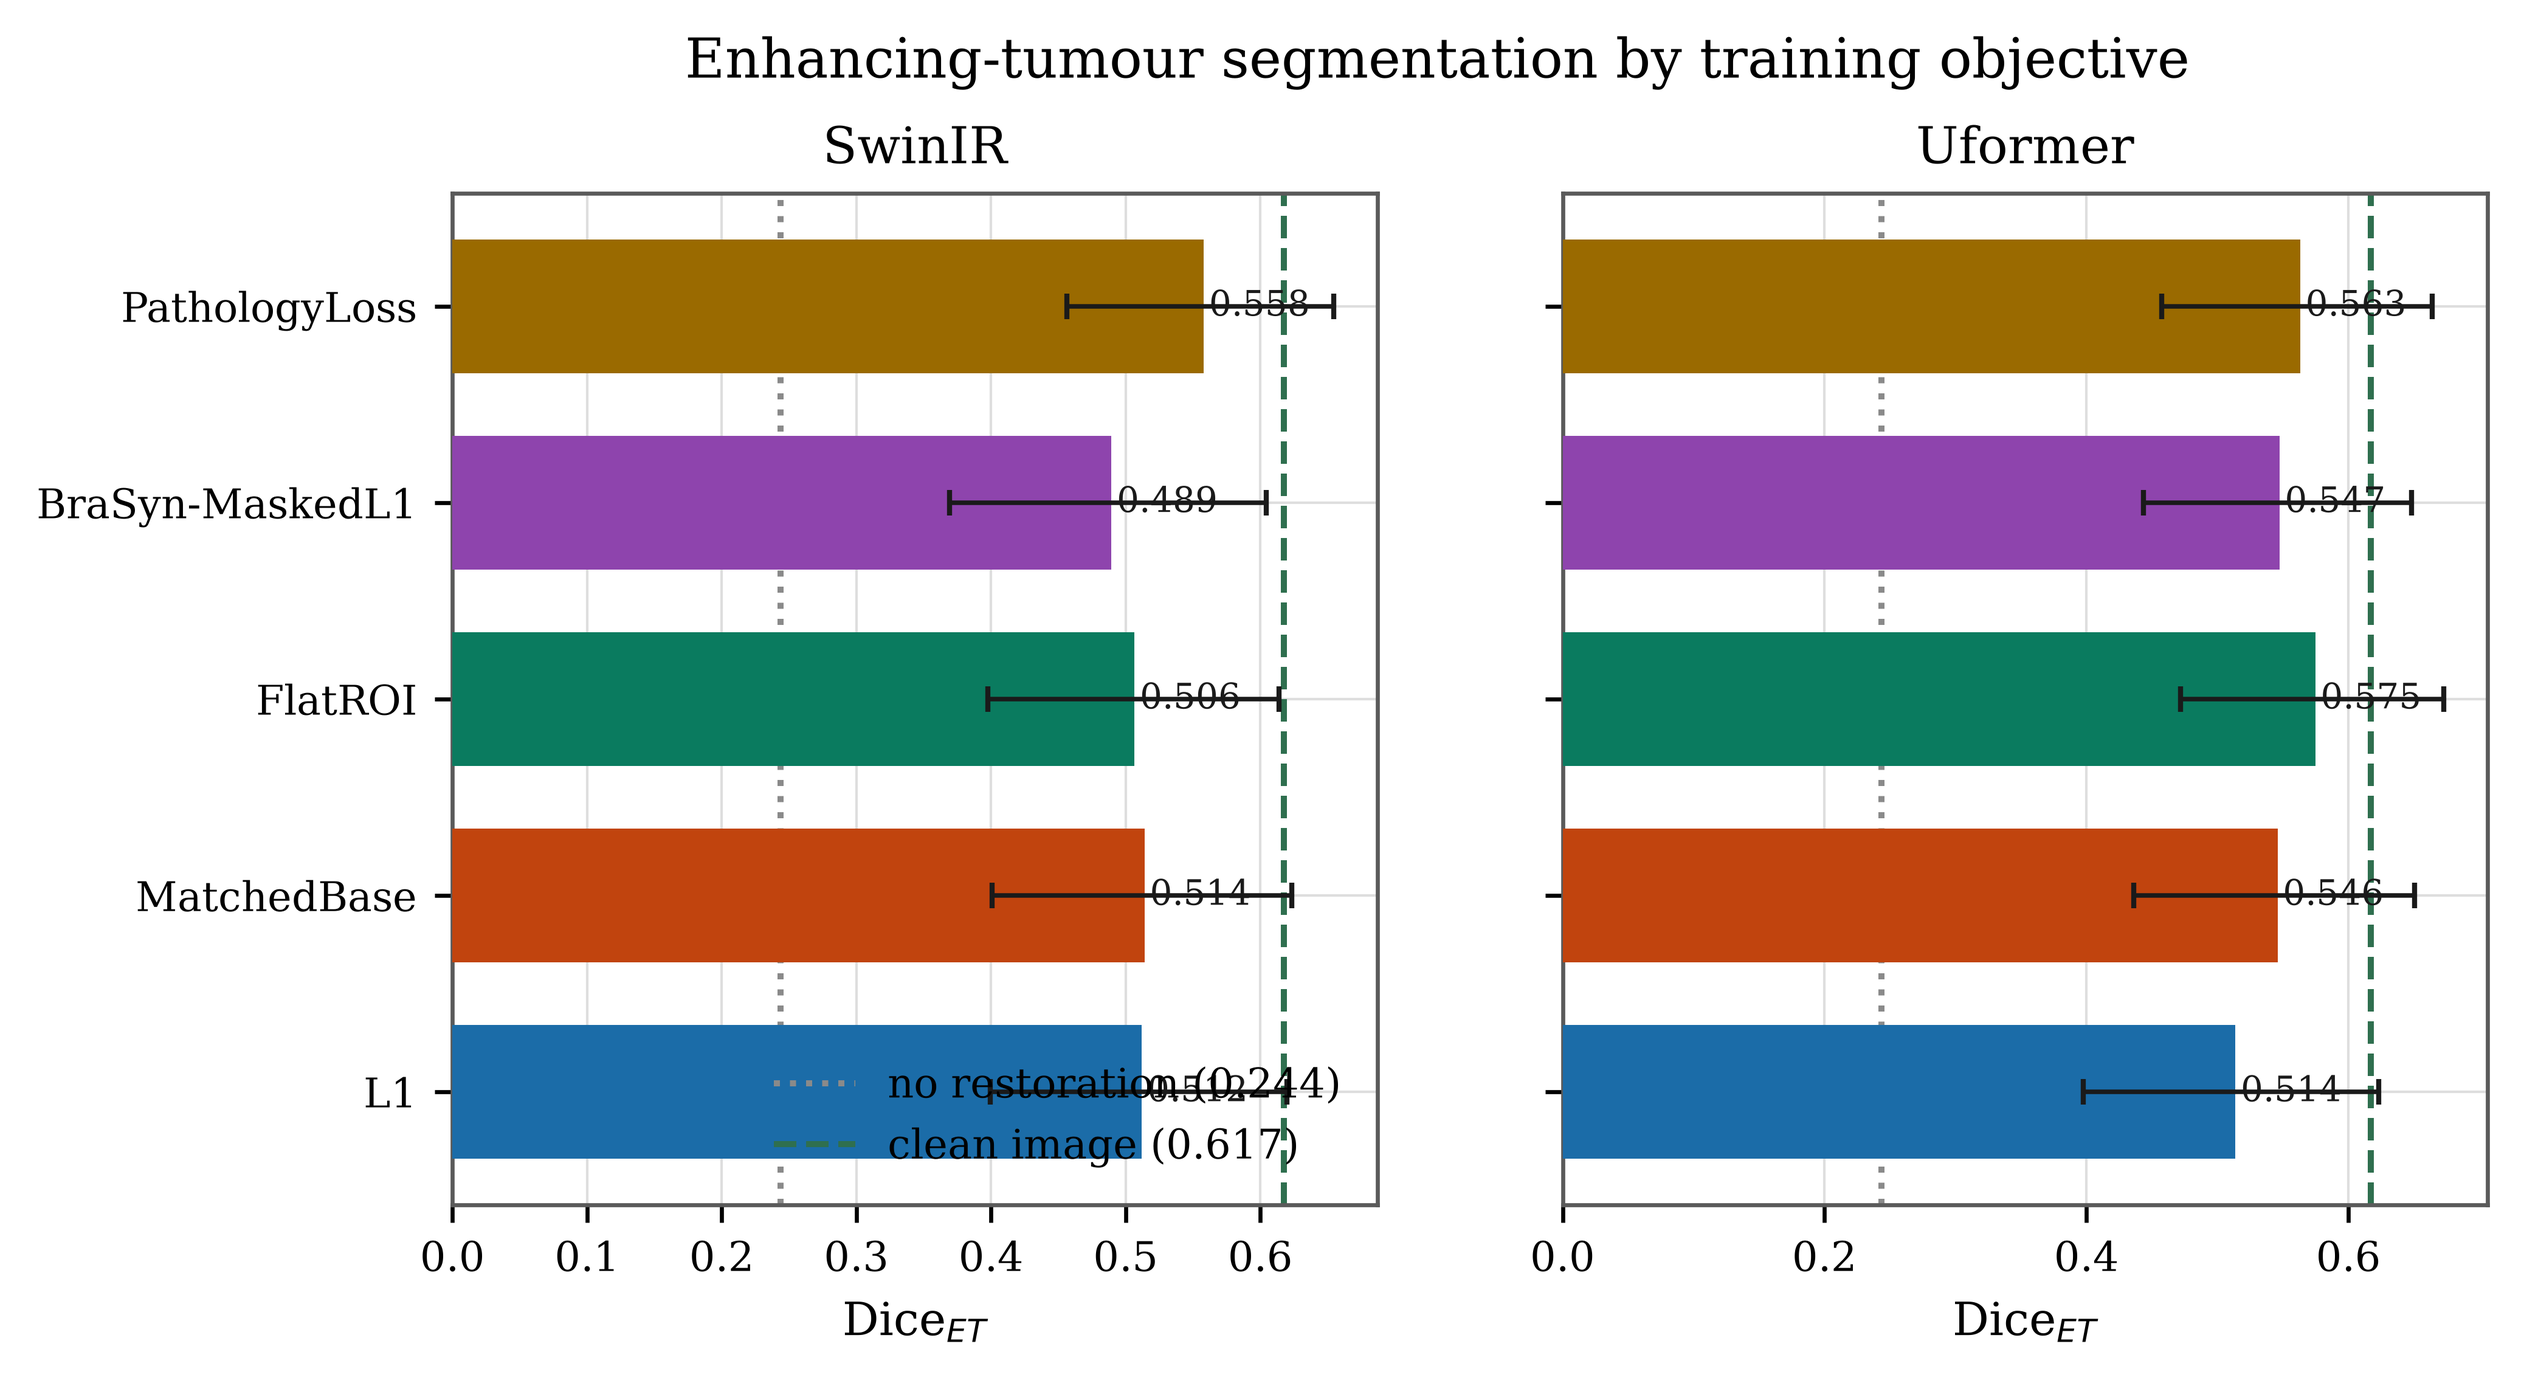
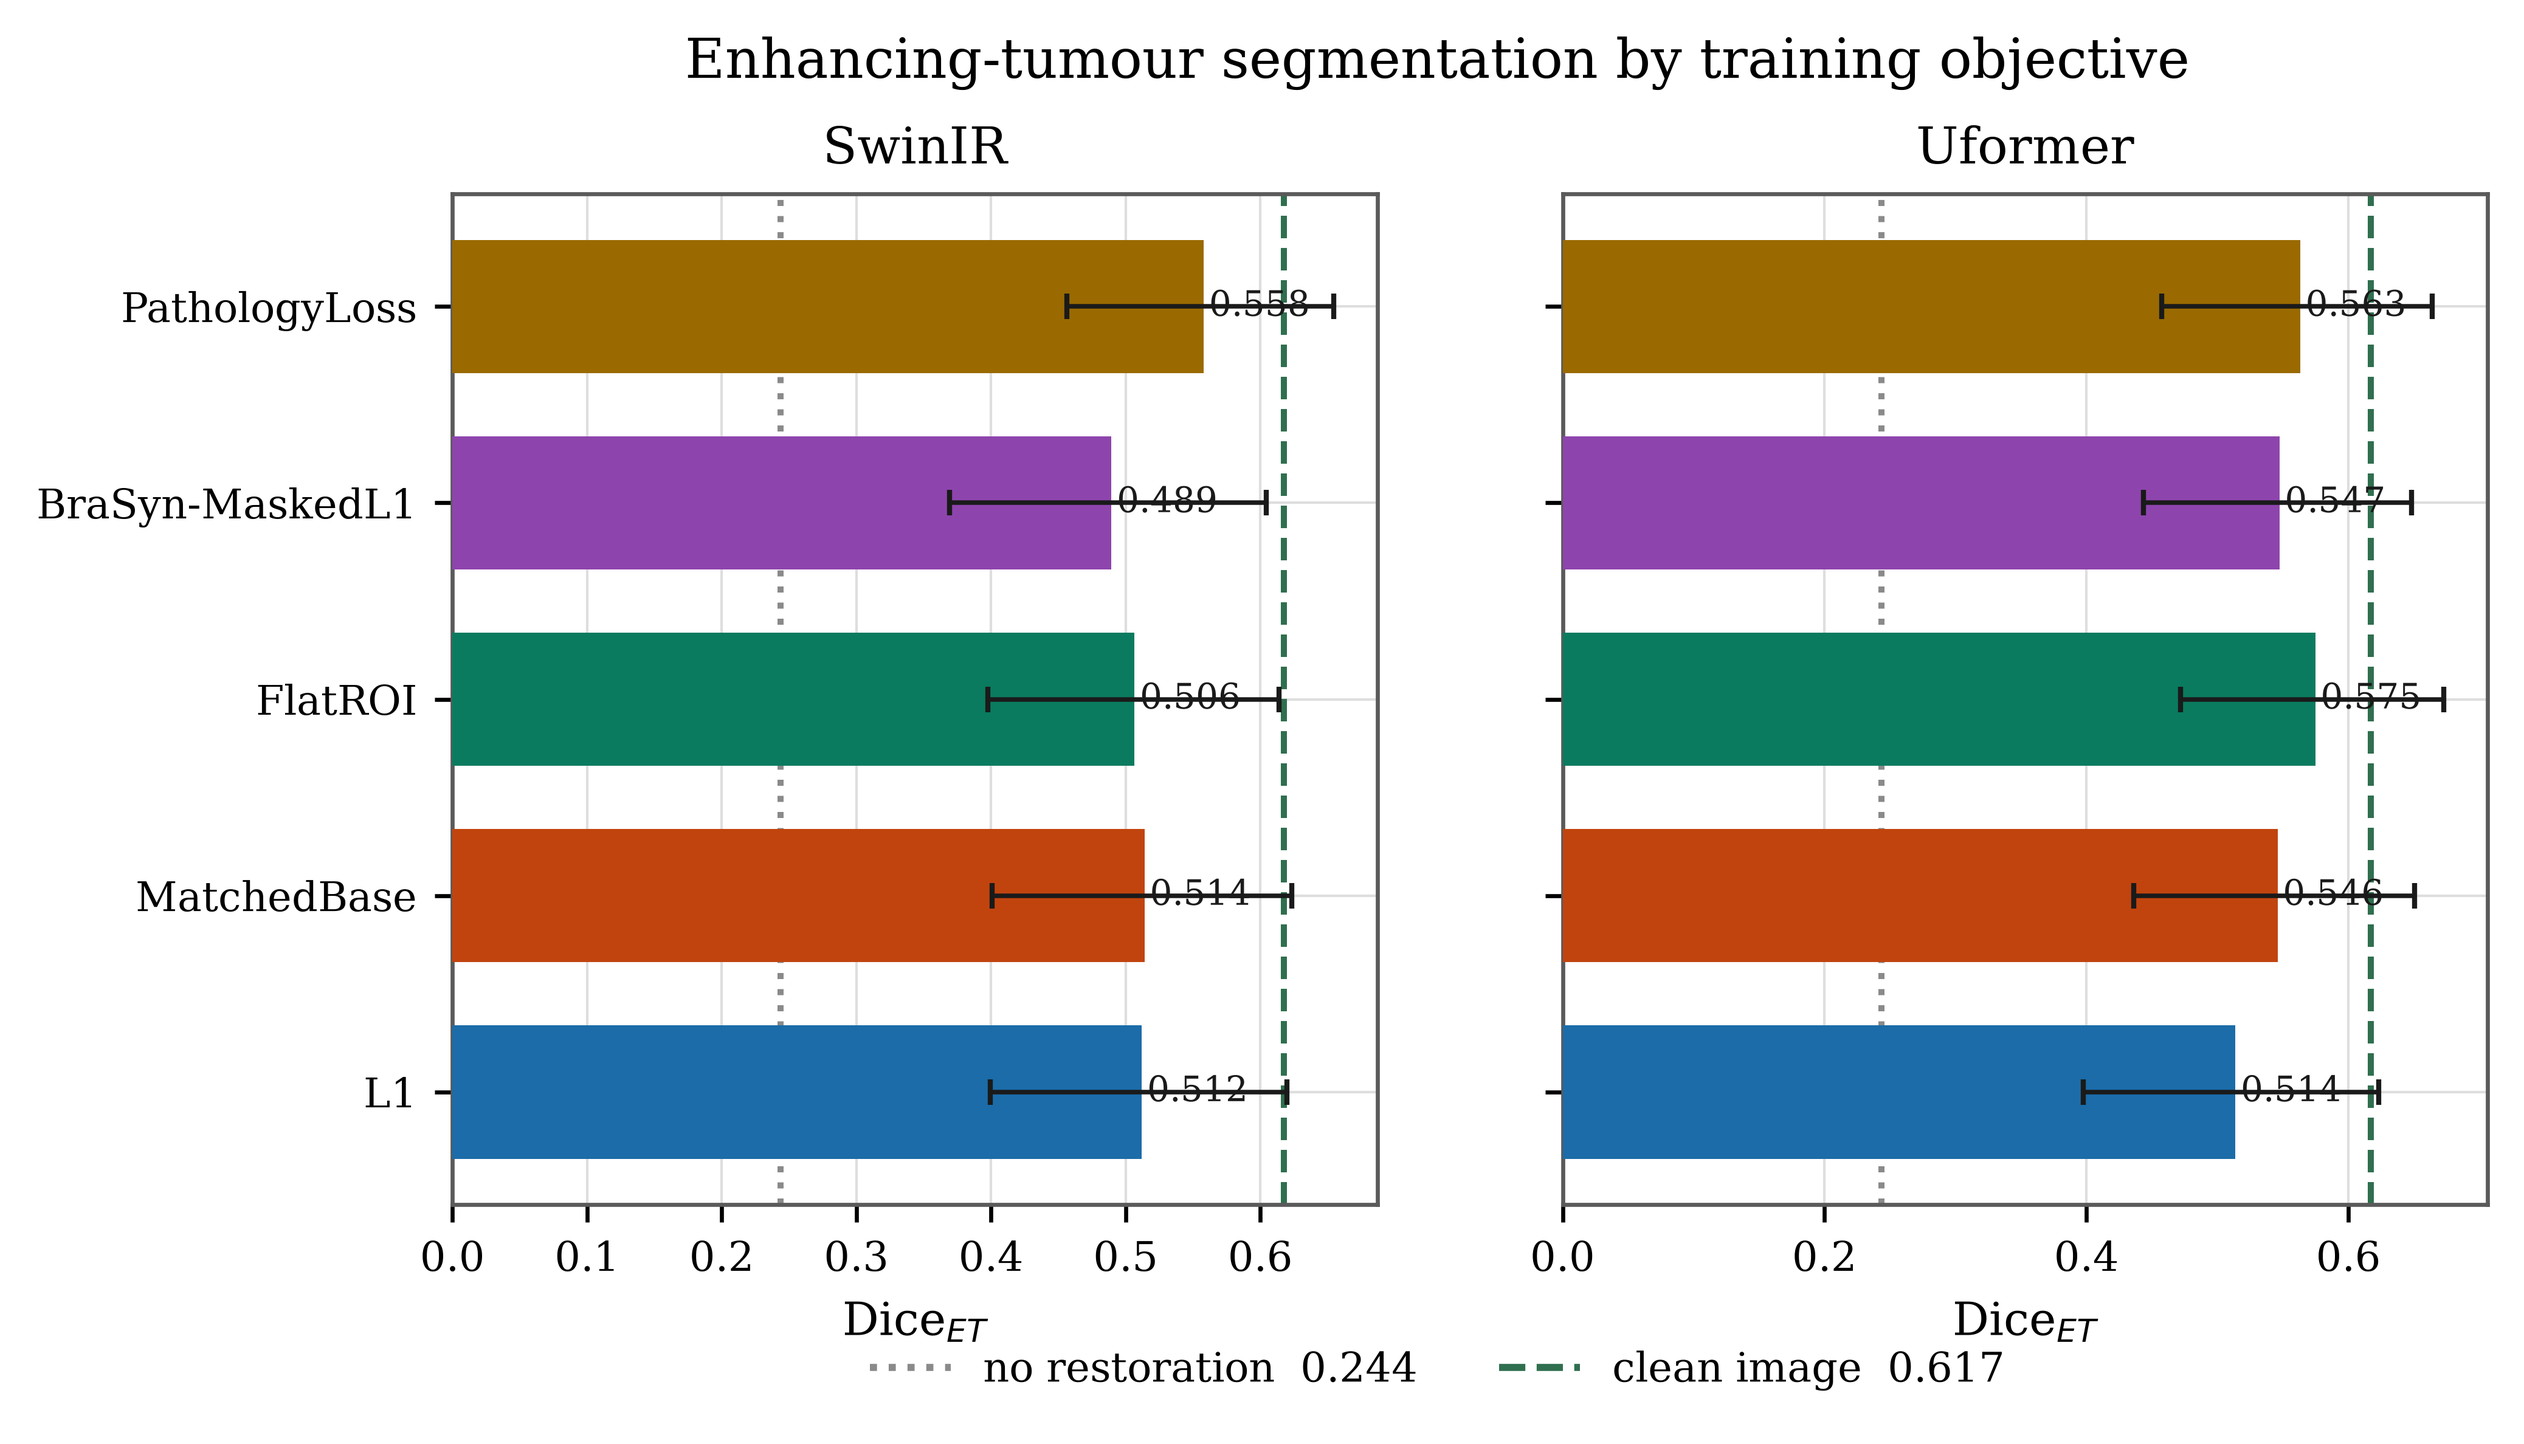
Add the publication run: Uformer, one seed, 50 epochs
PHASE=final is the protocol for the paper. Uformer only, one seed, 50
epochs, 100 subjects, 80/20 by patient, with the five objectives the
argument needs and both reference arms:

    Noisy floor . Clean ceiling . L1 . MatchedBase
    PathologyLoss . FlatROI . BraSyn-MaskedL1

dump_slices raised to 96 so the qualitative image figure has enough slices
to pick a genuinely disagreeing one, rather than whichever happened to be
dumped first.

PHASE=final-all is the same protocol across every objective.

The banner now prints a runtime estimate from the actual arm count, epoch
budget and cohort size, scaled from the measured 100 min per model at 10
epochs on 100 subjects. final is ~43 h; final-all is ~120 h. Printing it
before the run starts is the difference between choosing a protocol and
discovering its cost four hours in.

On the budget itself: 50 epochs is defensible but it has to be DEFENDED.
Zhao et al. justify 100 by validation error stagnating. The loss curves this
run writes (fig08) are the evidence for whatever number ends up in the
manuscript -- if they are still falling at 50, say so.

diff --git a/make_paper_figures.py b/make_paper_figures.py
@@ -225,13 +225,15 @@ def main():
         ax.set_title(bb, pad=6)
         for yi, v in zip(y, mu):
             ax.text(v + 0.004, yi, f'{v:.3f}', va='center', fontsize=7, color=INK)
+    # Legend goes BELOW the axes. Inside, it lands on the lowest bar and
+    # collides with that bar's value label at any useful figure width.
     if floor is not None and ceil is not None:
-        axes[0][0].legend(handles=[
-            plt.Line2D([], [], color=FLOOR_C, ls=':', lw=1.2,
-                       label=f'no restoration ({floor:.3f})'),
-            plt.Line2D([], [], color=CEIL_C, ls='--', lw=1.2,
-                       label=f'clean image ({ceil:.3f})')],
-            loc='lower right')
+        fig.legend(handles=[
+            plt.Line2D([], [], color=FLOOR_C, ls=':', lw=1.4,
+                       label=f'no restoration  {floor:.3f}'),
+            plt.Line2D([], [], color=CEIL_C, ls='--', lw=1.4,
+                       label=f'clean image  {ceil:.3f}')],
+            loc='lower center', ncol=2, bbox_to_anchor=(0.5, -0.06))
     fig.suptitle('Enhancing-tumour segmentation by training objective', y=1.0)
     save(fig, 'fig1_accuracy_by_loss')
 
